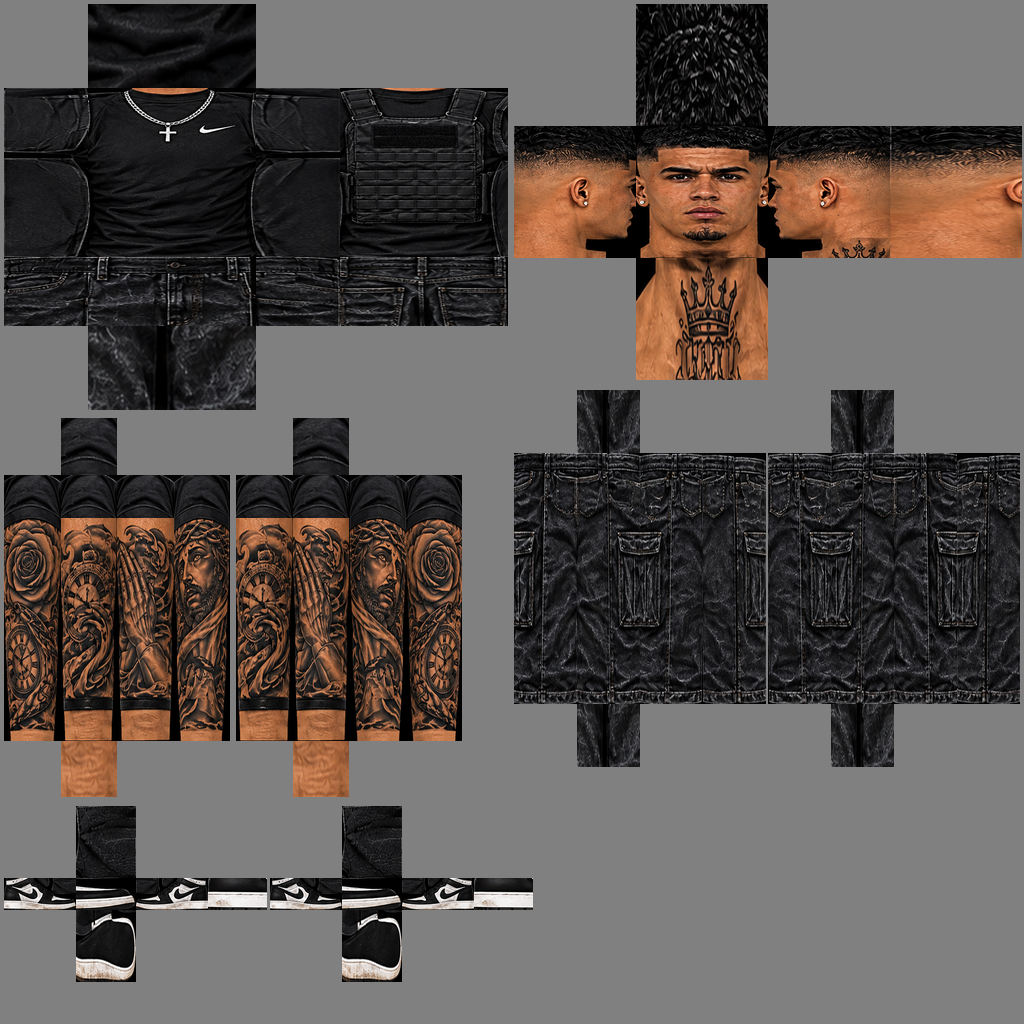
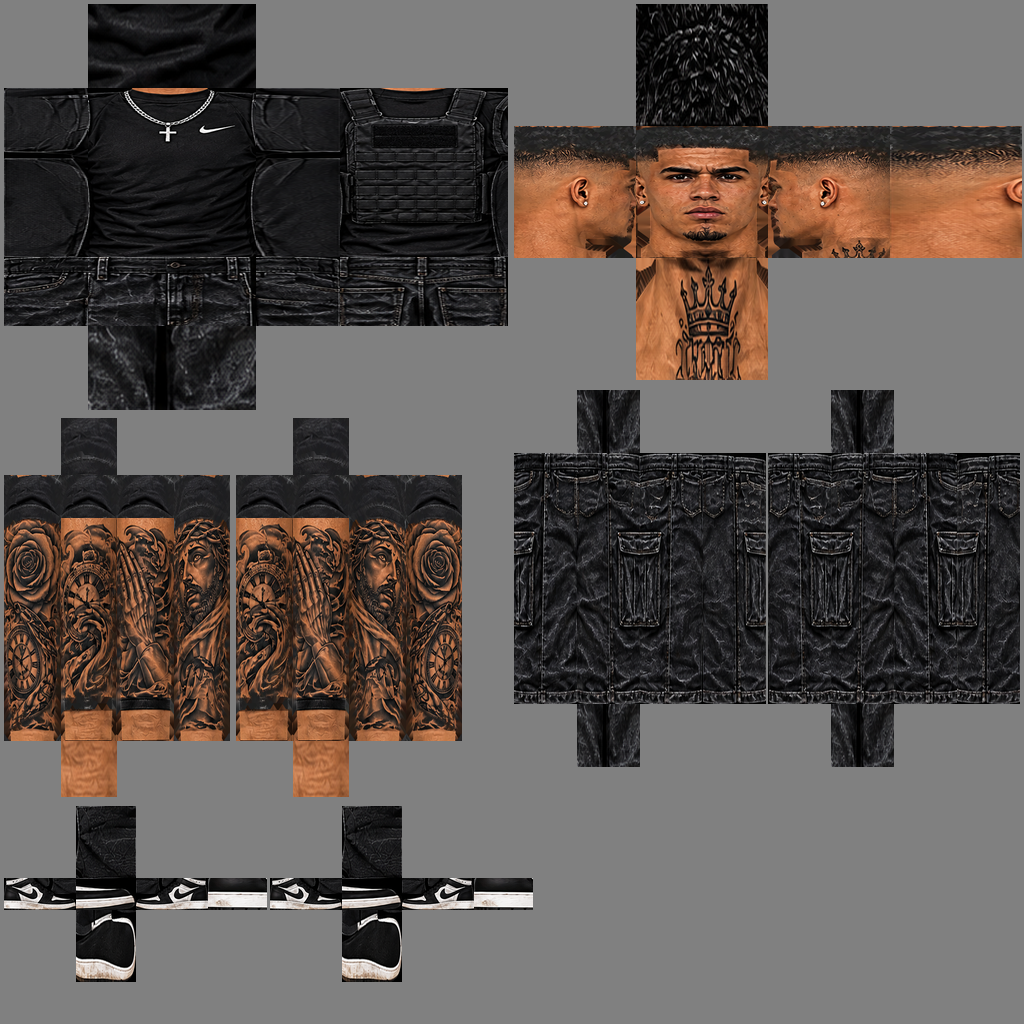
Skin remontada sem o fundo preto da folha na cabeça e nos braços
tools/montar_skin.py: "limpar_fundo" apaga o fundo da folha de origem que entra no recorte
e preenche com a cor vizinha (pele/cabelo), para a cabeça do boneco ficar como a da skin.

Claude-Session: https://claude.ai/code/session_012EZ5KKTFERXFdQTAkopxx1

diff --git a/tools/montar_skin.py b/tools/montar_skin.py
@@ -7,15 +7,57 @@ Uma face também pode ser uma lista de camadas: [{"de": [x0,y0,x1,y1], "em": [fa
 a faixa [fa, fb] da altura da face (0 = em cima, 1 = embaixo), para juntar camisa + calça no tronco, por exemplo.
 Prefixo "espelhar" na camada ({"de": [...], "espelhar": true}) vira o recorte de lado.
 
+"limpar_fundo": lista de partes onde o fundo da imagem de origem (preto ou da cor do canto) que entrar no recorte
+é apagado e preenchido com a cor do lado (pele, cabelo), para a cabeça e os braços não ficarem com pedaços de fundo.
+
 Uso: python3 tools/montar_skin.py origem.png receita.json saida.png [tamanho=1024]
 """
 import json
 import os
 import sys
 
+import numpy as np
 from PIL import Image, ImageOps
 
 RAIZ = os.path.join(os.path.dirname(os.path.abspath(__file__)), '..')
+
+
+def _dilatar(m):
+    d = m.copy()
+    d[1:] |= m[:-1]; d[:-1] |= m[1:]; d[:, 1:] |= m[:, :-1]; d[:, :-1] |= m[:, 1:]
+    return d
+
+
+def limpar_fundo(peca, fundo, tol=30):
+    """Apaga o fundo que encosta na borda do recorte e preenche com a média dos vizinhos (puxa a cor de dentro)."""
+    a = np.asarray(peca, dtype=np.float32).copy()
+    perto = np.abs(a - np.array(fundo, dtype=np.float32)).max(axis=2) <= tol
+    borda = np.zeros_like(perto)
+    borda[-1, :] = True  # a borda de cima fica de fora: ali costuma estar o cabelo, que também é escuro
+    borda[:, 0] = borda[:, -1] = True
+    m = perto & borda
+    while True:  # o fundo ligado à borda
+        n = perto & _dilatar(m)
+        if n.sum() == m.sum():
+            break
+        m = n
+    if m.all() or not m.any():
+        return peca
+    conhecido = ~m
+    while not conhecido.all():
+        soma = np.zeros_like(a)
+        cont = np.zeros(m.shape, dtype=np.float32)
+        for dy, dx in ((1, 0), (-1, 0), (0, 1), (0, -1), (1, 1), (-1, -1), (1, -1), (-1, 1)):
+            k = np.roll(np.roll(conhecido, dy, 0), dx, 1)
+            v = np.roll(np.roll(a, dy, 0), dx, 1)
+            soma += v * k[..., None]
+            cont += k
+        novo = (~conhecido) & (cont > 0)
+        if not novo.any():
+            break
+        a[novo] = soma[novo] / cont[novo][:, None]
+        conhecido |= novo
+    return Image.fromarray(a.clip(0, 255).astype(np.uint8))
 
 
 def main():
@@ -25,6 +67,8 @@ def main():
     molde = json.load(open(os.path.join(RAIZ, 'shaders', 'kit', 'personagens', 'molde.json'), encoding='utf-8'))
     rec = json.load(open(receita, encoding='utf-8'))
     out = Image.new('RGB', (tam, tam), (128, 128, 128))
+    limpar = set(rec.get('limpar_fundo', []))
+    fundo = src.getpixel((0, 0))  # cor do fundo da folha (canto de cima)
     for parte, faces in rec['partes'].items():
         for face, camadas in faces.items():
             r = molde['partes'][parte][face]
@@ -39,6 +83,8 @@ def main():
                 if x1 - x0 < 1 or yb - ya < 1:
                     continue
                 peca = src.crop(tuple(c['de']))
+                if parte in limpar and c.get('limpar', True):
+                    peca = limpar_fundo(peca, fundo)
                 if c.get('espelhar'):
                     peca = ImageOps.mirror(peca)
                 out.paste(peca.resize((x1 - x0, yb - ya), Image.LANCZOS), (x0, ya))
